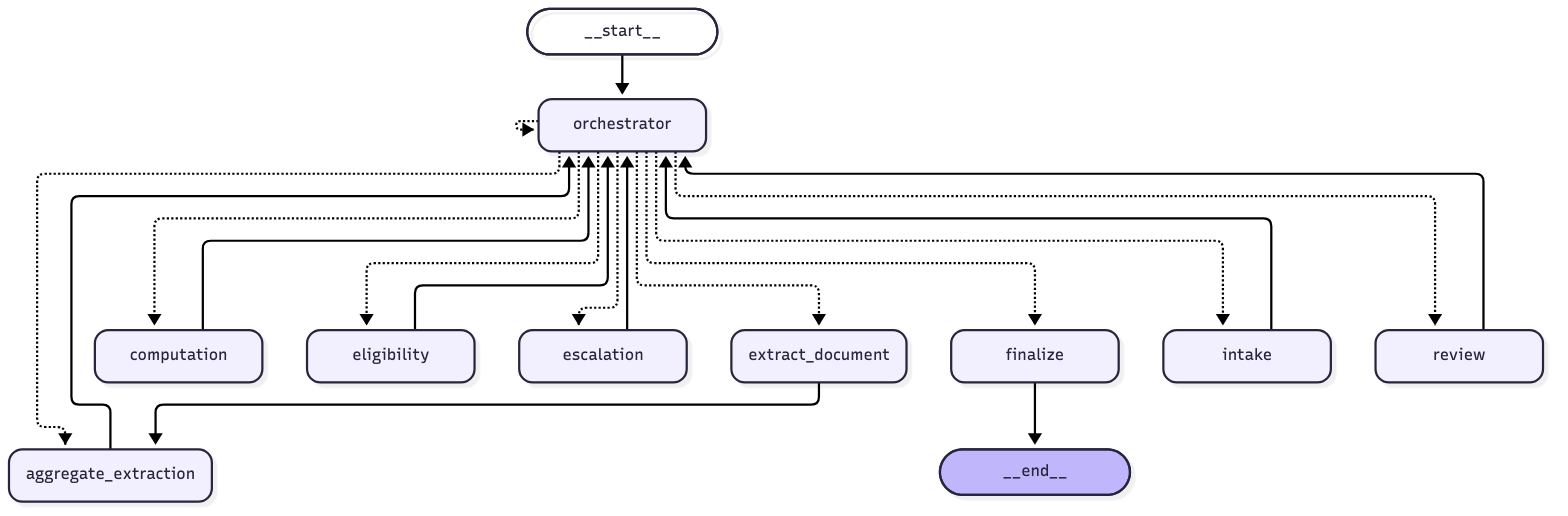
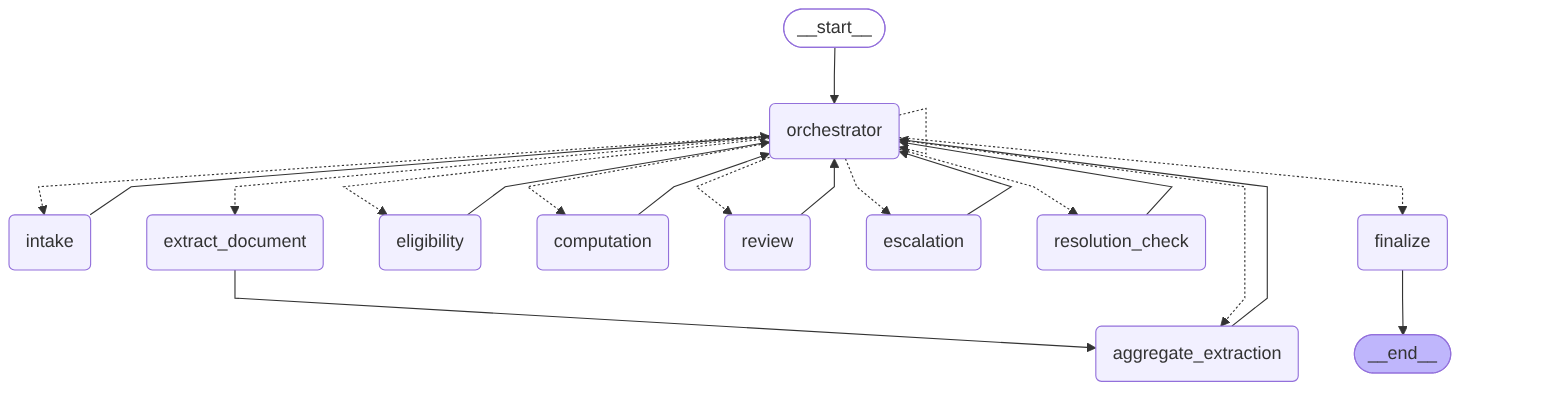
Orchestration: flow tests, tests for the new human-review routing rows, updated graph diagram
# PR 1 of 2: orchestration tests + updated graph diagram  (merge this first)

Branch name: orchestration-tests-and-diagram
Upload: drag the "tests" and "docs" folders from the "files" folder, one at a time (GitHub's upload only adds or updates files, it never deletes others). Expect 4 entries: /tests/test_orchestration_flow.py, /tests/test_routing_table.py, /docs/graph.mmd, /docs/graph.png.
(test_routing_table.py and the two docs files REPLACE existing files; test_orchestration_flow.py is new.)

## Commit message (title)
Orchestration: flow tests, tests for the new human-review routing rows, updated graph diagram

## Commit message (description box)
The human-review change (PR #6) added a resolution_check node and two routing rules at the top of
decide_next (recompute_stage, resolution_request). This updates my area to match:
- tests/test_routing_table.py: 12 new tests for the two new rows (they beat open escalations, halts and
  review findings; finished returns still end; the node numbers recompute attempts)
- tests/test_orchestration_flow.py (new): runs real returns through the graph and checks the order agents
  run in (hub-and-spoke, parallel extraction is one handoff, review loop bounded without tripping the loop guard)
- docs/graph.mmd and docs/graph.png: add the resolution_check node; both were out of date
No source code changed. Author: Mahika Arora (Task division and management).

Claude-Session: https://claude.ai/code/session_01Q3gH6JNqjo6bfyta4MCY5P
[…]

diff --git a/tests/test_orchestration_flow.py b/tests/test_orchestration_flow.py
@@ -1,0 +1,92 @@
+"""The Orchestrator's decisions seen through the whole graph.
+
+tests/test_routing_table.py checks `decide_next` row by row, on hand-made states.
+These tests run real returns through the compiled graph and check the *sequence*
+of agents that comes out: the hub-and-spoke shape (every worker hands back to the
+Orchestrator), that the parallel extraction and the review loop each run the
+number of times they should, and that the same return always takes the same route.
+
+Author: Mahika Arora (Task division and management)
+"""
+from __future__ import annotations
+
+from conftest import case1_document_list, load_intake, run_prefilled, CASE1
+from silverfile.state import MAX_HANDOFFS, MAX_REVIEW_ROUNDS
+
+CLEAN_ORDER = ["extraction", "eligibility", "computation", "review", "finalize"]
+
+
+def _workers(out) -> list[str]:
+    """The agents that acted, in order, without the Orchestrator's own entries."""
+    return [h for h in out["handoffs"] if h != "orchestrator"]
+
+
+def _decisions(out) -> list[str]:
+    """What the Orchestrator decided each time it ran, from its own event log."""
+    return [e.removeprefix("orchestrator -> ") for e in out["events"] if e.startswith("orchestrator -> ")]
+
+
+def test_a_clean_return_visits_each_agent_once_in_order():
+    _, _, out = run_prefilled("flow-clean", case1_document_list(), load_intake(CASE1))
+    assert out["status"] == "complete"
+    assert _workers(out) == CLEAN_ORDER
+    assert _decisions(out) == CLEAN_ORDER  # what it decided is what then ran
+
+
+def test_the_route_is_hub_and_spoke_every_worker_returns_to_the_orchestrator():
+    _, _, out = run_prefilled("flow-hub", case1_document_list(), load_intake(CASE1))
+    hs = out["handoffs"]
+    assert hs[0] == "orchestrator"  # the graph's only entry point
+    assert all(h == "orchestrator" for h in hs[0::2])  # the Orchestrator acts between every pair of workers
+    assert all(h != "orchestrator" for h in hs[1::2])
+    assert hs[-1] == "finalize"  # and the return ends at finalize, not at the hub
+
+
+def test_a_prefilled_return_skips_intake_and_starts_at_extraction():
+    _, _, out = run_prefilled("flow-entry", case1_document_list(), load_intake(CASE1))
+    assert "intake" not in out["handoffs"]
+    assert _workers(out)[0] == "extraction"
+
+
+def test_extraction_runs_once_for_all_documents_not_once_per_document():
+    _, _, out = run_prefilled("flow-fanout", case1_document_list(), load_intake(CASE1))
+    assert len(out["extracted"]) == 4
+    assert _workers(out).count("extraction") == 1  # four parallel branches, one aggregated handoff
+
+
+def test_a_clean_return_never_needs_the_human_review_nodes():
+    _, _, out = run_prefilled("flow-no-human", case1_document_list(), load_intake(CASE1))
+    assert "escalation" not in out["handoffs"] and "resolution_check" not in out["handoffs"]
+    assert out.get("recompute_stage") is None and out.get("resolution_request") is None
+
+
+def test_one_review_round_when_the_draft_is_clean():
+    _, _, out = run_prefilled("flow-one-round", case1_document_list(), load_intake(CASE1))
+    assert out["review_round"] == 1 and out["review_passed"] is True
+    assert _workers(out).count("review") == 1 and _workers(out).count("computation") == 1
+
+
+def test_a_review_finding_sends_only_computation_back_not_the_whole_pipeline():
+    # a provenance record is dropped once: Review fails round 1, Computation reruns, Review passes round 2
+    _, _, out = run_prefilled("flow-revise", case1_document_list(), load_intake(CASE1), fault_injection={"drop_provenance_for": "6b", "rounds": 1})
+    assert out["status"] == "complete"
+    assert _workers(out) == ["extraction", "eligibility", "computation", "review", "computation", "review", "finalize"]
+    assert _decisions(out) == _workers(out)
+
+
+def test_a_review_loop_that_never_passes_is_stopped_by_its_own_bound_not_the_loop_guard():
+    _, _, out = run_prefilled("flow-bound", case1_document_list(), load_intake(CASE1), fault_injection={"corrupt_line": "9", "delta": 100, "rounds": 99})
+    w = _workers(out)
+    assert w.count("review") == MAX_REVIEW_ROUNDS and w.count("computation") == MAX_REVIEW_ROUNDS
+    assert w.count("extraction") == 1 and w.count("eligibility") == 1  # earlier steps are not repeated
+    assert out["loop_guard_tripped"] is False  # the computation/review pair is bounded by MAX_REVIEW_ROUNDS
+    assert out["status"] == "waiting_human"
+    assert _decisions(out)[-2:] == ["review_unresolved", "escalation"]
+    assert len(w) < MAX_HANDOFFS
+
+
+def test_the_same_return_takes_the_same_route_every_time():
+    _, _, first = run_prefilled("flow-repeat-a", case1_document_list(), load_intake(CASE1))
+    _, _, second = run_prefilled("flow-repeat-b", case1_document_list(), load_intake(CASE1))
+    assert first["handoffs"] == second["handoffs"]
+    assert _decisions(first) == _decisions(second)

diff --git a/tests/test_routing_table.py b/tests/test_routing_table.py
@@ -153,6 +153,47 @@ def test_review_passing_beats_the_round_bound():
     assert decide_next(state(review_round=MAX_REVIEW_ROUNDS, review_passed=True)) == "finalize"
 
 
+# ---------------------------------------------------------------- human review: recompute and resolution check
+# Added after the human-review change (Guardrails A): two rows sit directly under the end states, so a
+# person's edit or Continue is carried through before anything else is routed.
+
+
+@pytest.mark.parametrize("stage", ["eligibility", "computation", "review"])
+def test_a_recompute_stage_routes_to_that_agent(stage):
+    assert decide_next(state(recompute_stage=stage)) == stage
+
+
+def test_a_pending_resolution_goes_to_the_resolution_check():
+    assert decide_next(state(resolution_request={"escalation_id": "esc-1", "action": "continue"})) == "resolution_check"
+
+
+def test_recompute_beats_a_pending_resolution():
+    s = state(recompute_stage="computation", resolution_request={"escalation_id": "esc-1", "action": "continue"})
+    assert decide_next(s) == "computation"
+
+
+@pytest.mark.parametrize("extra", [{"escalations": OPEN_ESC}, {"halted_reason": "x"}, {"revise_target": "human"}])
+def test_human_review_steps_beat_escalation_halt_and_review_findings(extra):
+    assert decide_next(state(recompute_stage="eligibility", **extra)) == "eligibility"
+    assert decide_next(state(resolution_request={"escalation_id": "esc-1", "action": "continue"}, **extra)) == "resolution_check"
+
+
+@pytest.mark.parametrize("status", ["complete", "halted"])
+def test_a_finished_return_ends_even_mid_recompute(status):
+    assert decide_next(state(status=status, recompute_stage="computation")) == "end"
+    assert decide_next(state(status=status, resolution_request={"escalation_id": "esc-1", "action": "continue"})) == "end"
+
+
+def test_node_follows_a_recompute_stage_and_numbers_the_computation_attempt():
+    out = orchestrator_node(state(recompute_stage="computation", computation_version=2))
+    assert out["next_agent"] == "computation" and out["computation_version"] == 3
+
+
+def test_node_hands_a_pending_resolution_to_the_resolution_check():
+    out = orchestrator_node(state(resolution_request={"escalation_id": "esc-1", "action": "continue"}))
+    assert out["next_agent"] == "resolution_check"
+
+
 # ---------------------------------------------------------------- priority: earlier rows win
 
 
